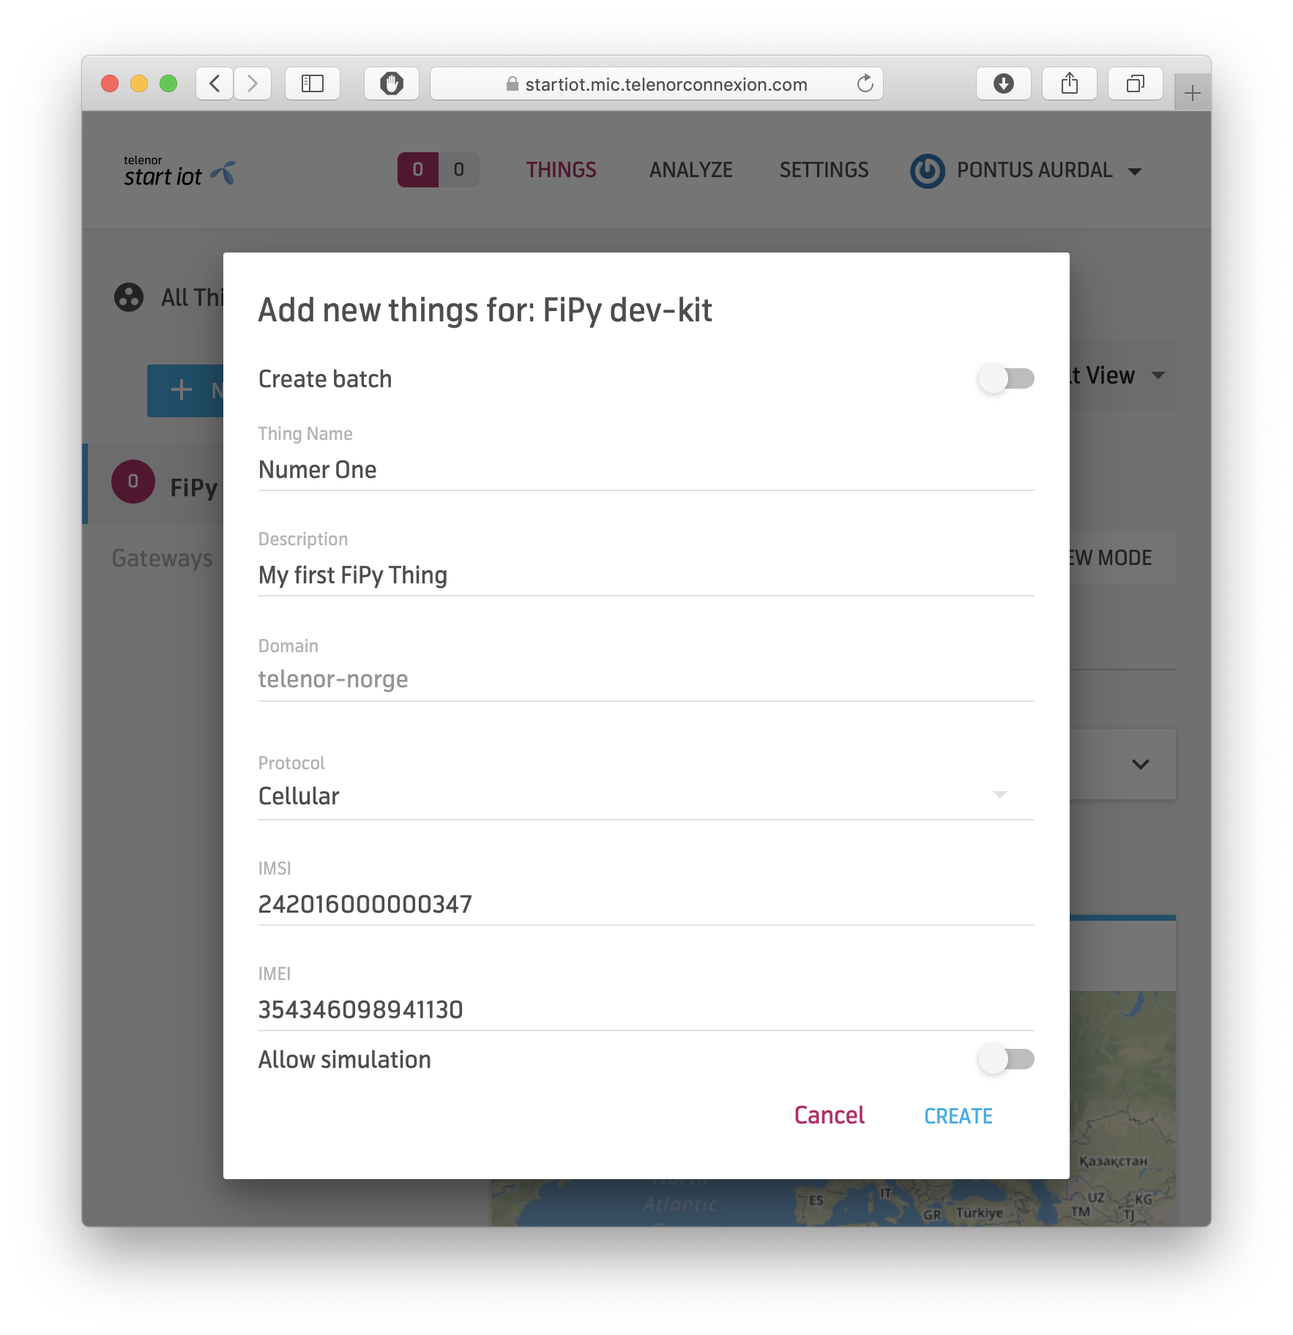
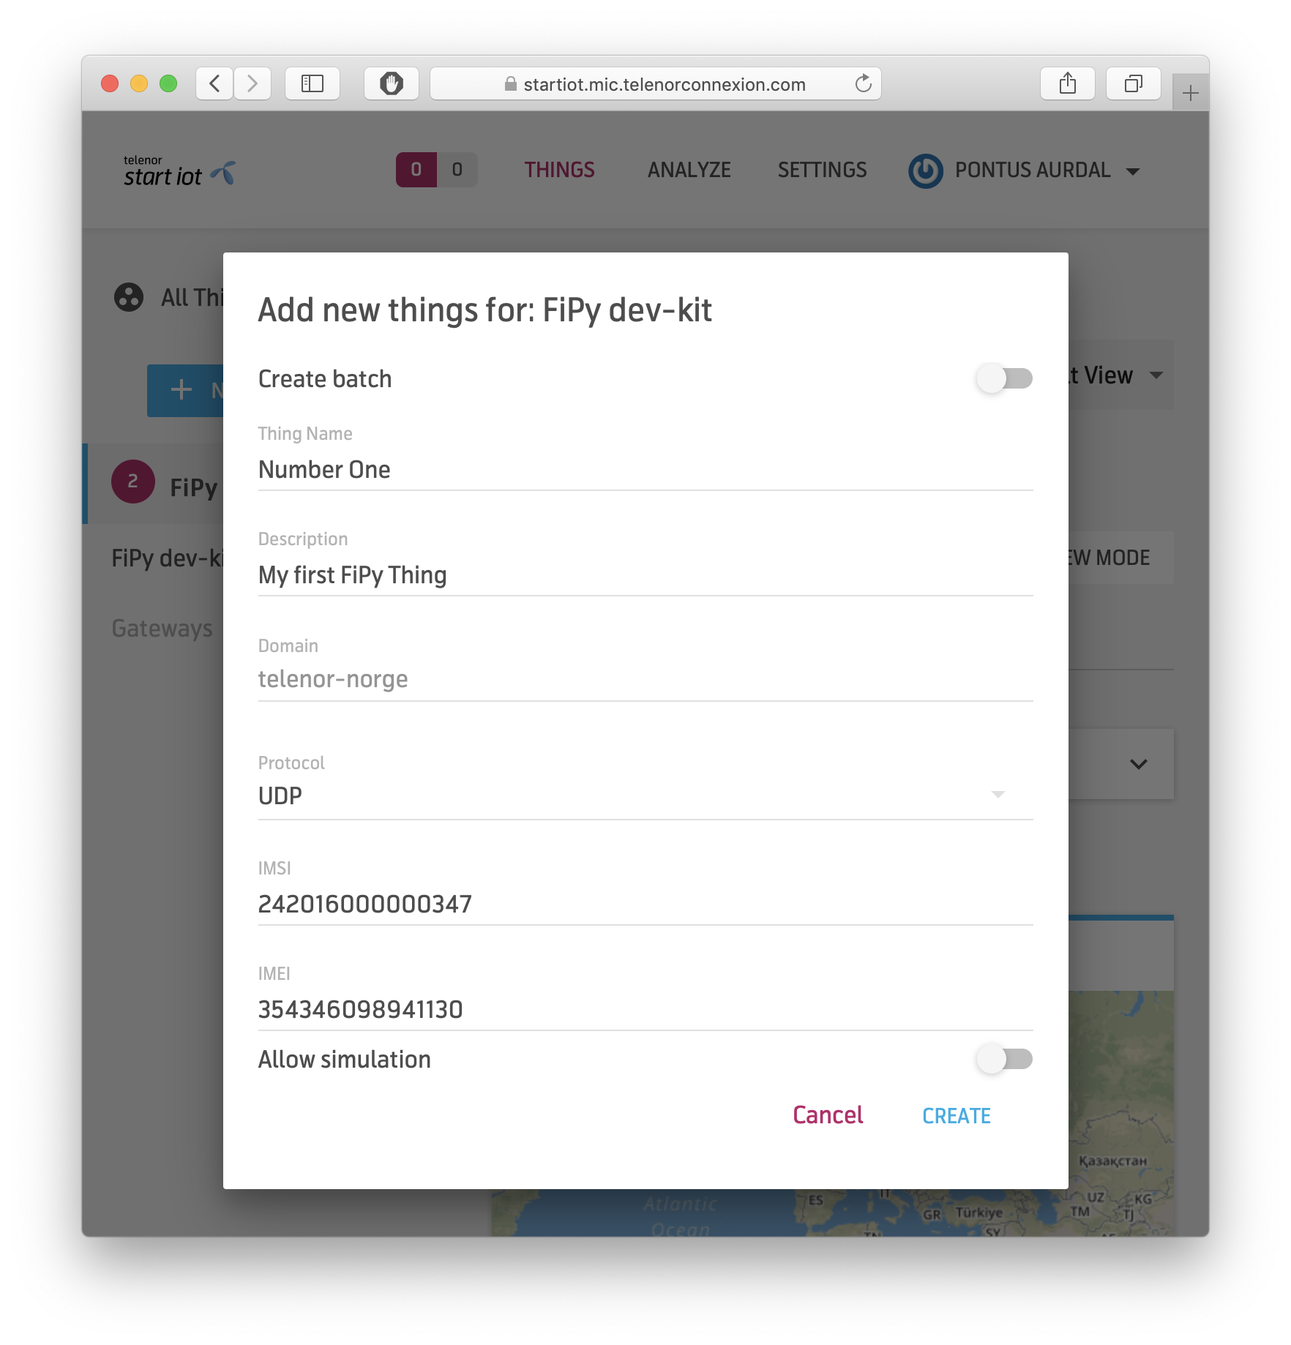
feat: update MQTT tutorial

diff --git a/02-fipy-mqtt/README.md b/02-fipy-mqtt/README.md
@@ -27,40 +27,43 @@ You can also find a lot of info related to the FiPy on Pycom's own documentation
 
 ## 1. Download and Install the VSCode Editor and the Pymakr Plugin
 
-This Chapter will show you how to download and install the VSCode editor and the Pymakr plugin for the VSCode editor. The VSCode editor is what you will use to connect to and program your dev-kit.
+This chapter will show you how to download and install the VSCode editor and the Pymakr plugin. The Pymakr plugin together with the VSCode editor is what you will use to connect to and program your FiPy dev-kit.
 
 ### Download the VSCode Editor
 
-The easiest way to program the FiPy is to use the VSCode editor and install the Pymakr plugin for the VSCode editor. You can download the VSCode editor for Windows, Linux and MacOS here: https://code.visualstudio.com/download. Download and install the VSCode editor for your operating system.
+You can download the VSCode editor for Windows, Linux and MacOS here: https://code.visualstudio.com/download. Download and install the VSCode editor for your operating system.
 
 ![Download VSCode](./assets/00-download-vscode.png)
 
 ### Install the Pymakr Plugin for VSCode
 
-When you have successfully installed the VSCode editor
-When you have successfully installed the VSCode editor you need to enable VSCode to connect over USB to the FiPy dev-kit. For that, the VSCode editor needs the Pymakr plugin. You should follow the instructions given by Pycom in order to install the plugin. Note: You should not try to follow the "Connect via serial USB" part just yet: https://docs.pycom.io/pymakr/installation/vscode/
+When you have successfully installed the VSCode editor you need to enable VSCode to connect over USB to the FiPy dev-kit. For that, the VSCode editor needs the Pymakr plugin. You should follow the instructions given by Pycom in order to install the plugin: https://docs.pycom.io/pymakr/installation/vscode/
 
-![Foo](./assets/01-pymakr.png)
+![VSCode Pymakr plugin](./assets/01-pymakr.png)
 
 When both the VSCode editor and the Pymakr plugin have been successfully installed you are ready to connect and start programming your own firmware for the FiPy. The next chapter will show you how to connect your dev-kit to the VSCode editor.
 
 ## 2. Assemble the FiPy Dev-Kit
 
-In this chapter you will learn how to assemble and connect the FiPy dev-kit to the VSCode editor. You will also communicate with the dev-kit in order to check the firmware version and retrieve the IMSI and IMEI numbers that you will need to register you dev-kit in the MIC platform. More on that in a later chapter, let us first connect the dev-kit to VSCode.
+In this chapter you will learn how to assemble and connect the FiPy dev-kit to the VSCode editor. You will also communicate with the dev-kit in order to check the firmware version. More on that in a later chapter, let us first assemble the dev-kit.
 
 ### Attach the Antenna
 
-**Important**: You should always mount the 4G antenna to the connector on the bottom side of the FiPy . The result of not connecting the antenna could be that you harm the modem when it is connected. You should insert the provided SIM card in the SIM card slot on the bottom side of the FiPy. If you do not have the SIM inserted it will be impossible to connect to the 4G network.
+**Important**: You should always mount the 4G antenna to the connector on the bottom side of the FiPy. The result of not connecting the antenna could be that you harm the modem when it is connected.
 
 ![LTE antenna](./assets/02-lte-ant-fipy.png)
 
-### Insert the SIM and Mount FiPy on the Expansion Board
+Attach the antenna on the bottom side of the FiPy.
 
-You should now mount the FiPy module to the provided Expansion Board. The USB connector on the expansion board must be in the same direction as the reset button on the FiPy module. The image shows you what it should look like. You should check that all the jumper switches on the Expansion board is present. The jumper switches are the small plastic jumpers located on the upper left side of the expansion board. Without all the jumpers in place it might be impossible to get contact with the FiPy. You should also check that all the PIN's on the FiPy are matching the open connectors on the expansion board (i.e. that it is aligned correctly) when you push the FiPy model into the expansion board.
+You should insert your SIM card into the SIM card slot on the bottom side of the FiPy. Notice the cut-corner of the SIM card to get the correct orientation. If you do not have the SIM inserted it will be impossible to connect to the 4G network.
 
 ![Insert SIM](./assets/03-sim-fipy.png)
 
 Insert the Nano SIM card.
+
+### Mount FiPy on the Expansion Board
+
+You should now mount the FiPy module to the provided Expansion Board. The USB connector on the expansion board must be in the same direction as the reset button on the FiPy module. The image shows you what it should look like. You should check that all the jumper switches on the Expansion board is present. The jumper switches are the small plastic jumpers located on the upper left side of the expansion board. Without all the jumpers in place it might be impossible to get contact with the FiPy. You should also check that all the PIN's on the FiPy are matching the open connectors on the expansion board (i.e. that it is aligned correctly) when you push the FiPy model into the expansion board.
 
 ![Expansion board 3.0](./assets/04-expansion-board-3-fipy.png)
 
@@ -68,22 +71,15 @@ Mount the FiPy on the Expansion board.
 
 ### Connect the FiPy to the VSCode Editor
 
-You are now ready to follow the "Connecting via serial USB" procedure described here: https://docs.pycom.io/pymakr/installation/vscode/#connecting-via-serial-usb
+You should now be able to connect to the FiPy dev-kit using a USB port on your computer. The Pymakr plugin will automatically detect your dev-kit and connect VSCode to it. You should note that the micro USB cable is not supplied with the dev-kit.
 
-As a result, you should now be able to connect to the FiPy dev-kit using a USB port on your computer. The Pymakr plugin will automatically detect your dev-kit and connect VSCode to it. You should note that the micro USB cable is not supplied with the dev-kit.
+![FiPy connected to VSCode and Pymakr](./assets/05-fipy-connected.png)
+
+If you don't see the Pycom Console window you can open it though the window menu "Window" > "New Terminal" and switch to "Pycom Console" in the drop-down.
 
 If you select the "All commands" button (located at the bottom bar) and then select "Get board version" in the VSCode Pymakr menu you should see the version number of the underlying Pycom Firmware.
 
-In the next chapter you will need the IMSI and IMEI numbers of the dev-kit. To get that, type the following in the REPL (after the >>>) and include carriage return (press enter) after each line. Make a note of the IMSI and IMEI numbers displayed (or just keep the VSCode editor open and available).
-
-``` python
-from network import LTE
-lte = LTE()
-lte.send_at_cmd("AT+CIMI")
-lte.send_at_cmd("AT+CGSN")
-```
-
-<Picture of terminal here>
+![FiPy board version](./assets/06-pymakr-board-version.png)
 
 ### Upgrade the Pycom Firmware
 
@@ -91,47 +87,47 @@ It should be OK to use the firmware that is pre-installed on your FiPy but you s
 
 ## 3. Register Your FiPy Dev-Kit in Telenor Managed IoT Cloud as an MQTT Thing
 
-In this chapter you will learn how to register your dev-kit to Telenor Start IoT Managed IoT Cloud (MIC). You will learn how to add a new MQTT "Thing" in MIC. You will also learn how to create a dashboard to display your data in MIC. When sending MQTT data to MIC it will be possible to view the separate values in the MQTT publish packet in MIC widgets. Widget types in MIC ranges from simple textual widgets to graphical representations of your data.
+In this chapter you will learn how to register your dev-kit to Telenor Managed IoT Cloud (MIC). You will learn how to add a new MQTT "Thing" in MIC. You will also learn how to create a dashboard to display your data in MIC. When sending MQTT data to MIC it will be possible to view the separate values in the MQTT publish packet in MIC widgets. Widget types in MIC ranges from simple textual widgets to graphical representations of your data.
 
 ### Sign Up For a MIC Platform Account
 
 You will have to register for a MIC account in order to register your dev-kit. You can do that here: https://demonorway.mic.telenorconnexion.com
 
-![Login](./assets/05-login-mic.png)
+![Login](./assets/07-login-mic.png)
 
 Click on the "Sign Up" button in the upper right corner and follow the instructions in order to sign up. You should be aware that the signup is a two phased sign up. It therefore requires that you, in phase one, verify your email. We will send a link to the email you register and you will have to use the link to verify your email address. In phase two, we will manually register your private MIC domain and activate your account. You will then receive a second email stating that your account has been activated. Because of this procedure it may take up to 24 hours before your account is ready to be used.
 
 ### Add a New Thing Type
 
-You will now have to login to your MIC account when it is ready for use. When logged in you must create a new "Thing Type" for your dev-kit. A "Thing Type" is a way to organize multiple "Things" that share similarities.
+You will be able to login to your MIC account when it is ready for use. When logged in create a new "Thing Type" for your dev-kit. A "Thing Type" is a way to organize multiple "Things" that share similarities.
 
-To add a new "Thing Type" click on the "+NEW THING TYPE" button and fill in the form. For things that are of type MQTT it is not necessary to add uplink or downlink transformations since the thing will send data following the MIC MQTT shadow update format. This format is directly understood by MIC.
+To add a new "Thing Type" click on the "+NEW THING TYPE" button and give it a name and a description. Assign it to the domain that your user was added to. For things that are of type MQTT it is not necessary to add uplink or downlink transformations since the thing will send data following the MIC MQTT shadow update format. This format is directly understood by MIC. You should keep in mind that this may increase the payload size for each data packet that your IoT device sends.
 
-![Create Thing Type](./assets/06-thingtype.png)
+![Create Thing Type](./assets/08-thing-type.png)
 
 ### Add a Thing Representing Your Dev-Kit
 
-The "Thing Type" and "Thing" together is a representation of your dev-kit in MIC. It is possible to have more than one thing in a Thing Type and this will make the Things in the Thing Type behave in the same manner with respect to how payloads from the Things are handled. The handling of the payload is described in your uplink transformation.
+The "Thing Type" and "Thing" together is a representation of your dev-kit in MIC. It is possible to have more than one thing in a Thing Type and this will make the Things in the Thing Type behave in the same manner with respect to how payloads from the Things are handled. The handling of the payload is described in your uplink transformation. When using the MQTT protocol we will however not make use of the uplink transformation.
 
-You must click on the "+THINGS" button to create a new Thing. In the create new Thing form, de-select the "Create batch" slider. You must then add a "Thing Name", a "Description", select your "Domain" and choose "mqtt" as "Protocol" for your Thing. The image shows an example of what it should look like.
+To add a new Thing, click on the "+ THINGS" button. De-select the "Create batch" slider in the pop-up window. You must then add a "Thing Name", a "Description", select your "Domain" and choose "MQTT" as the protocol for your Thing.
 
-![Add new Thing to Thing Type](./assets/07-thing.png)
+![Add new Thing to Thing Type](./assets/09-thing.png)
 
 ### See Your Newly Created Thing
 
 You can look at and access your Thing if you click the "List" tab. The image shows an example list of devices reflecting a single dev-kit Thing.
 
-![New Thing in MIC](./assets/08-thinglist.png)
+![New Thing in MIC](./assets/10-thing-list.png)
 
 ### Example Dashboard
 
-If you click on the "Thing name" in the list you will create a dashboard for your Thing. The dashboard will be mainly empty until the first payload for your Thing arrives. The dashboard is configurable and you can add widgets that represents values sent from your dev-kit (called resources). The image shows a very simple dashboard for the dummy payload sent from your device. It is possible to add more advanced widgets. Play around!
+If you click on the "Thing name" in the list you will create a dashboard for your Thing. The dashboard will be mainly empty until the first payload for your Thing arrives. The dashboard is configurable and you can add widgets that represents values sent from your dev-kit (called resources). The image shows a very simple dashboard for what it could look like. It is possible to add more advanced widgets.
 
-![Dashboard](./assets/09-dashboard.png)
+![Dashboard](./assets/11-sample-dashboard.png)
 
 ### Start Programming!
 
-It is now time to start programming the dev-kit. In the next chapter we will show you how.
+It is now time to start programming the dev-kit. In the next chapters we will show you how.
 
 ## 4. Flash FiPy for NB-IoT or Update the LTE-M Firmware
 
@@ -141,19 +137,19 @@ From the factory the FiPy is configured with the LTE-M (Cat M1) modem firmware, 
 
 It could however be a good idea to upgrade the LTE-M firmware when new versions are released. Detailed instructions on how to update the LTE-M firmware or switch to NB-IoT firmware can be found here: https://docs.pycom.io/tutorials/lte/firmware.html
 
+If you intend to use NB-IoT you must flash the modem firmware if you haven't done so already, as the factory image of the FiPy modem is configured for LTE-M (Cat M1).
+
 ## 5. Program the FiPy Using MQTT (LTE-M or NB-IoT)
 
-In this chapter you will learn how to program the FiPy dev-kit. The chapter will guide you through how to use the provided example code to connect the FiPy to the LTE-M or NB-IoT networks. Be aware that the FiPy Sequans modem firmware can only support either LTE-M (Cat M1) or NB-IoT. If you want to experiment with the NB-IoT network you will have to flash the Sequans modem on the FiPy with the NB-IoT firmware first.
-
-In this chapter you will learn how to program the FiPy dev-kit to send data using MQTT directly to MIC. The chapter will guide you on how to use the provided example code to connect the FiPy to the LTE-M (Cat M1) or NB-IoT (NB1) IoT networks. The example code prepares and publishes dummy messages directly to Managed IoT Cloud over the LTE-M (Cat M1) or NB-IoT (NB1) network.
+In this chapter you will learn how to program the FiPy dev-kit to send data using MQTT directly to MIC. The chapter will guide you through how to use the provided example code to connect the FiPy to the LTE-M or NB-IoT networks and publish dummy messages directly to Telenor Managed IoT Cloud. Be aware that the FiPy Sequans modem firmware can only support either LTE-M (Cat M1) or NB-IoT. If you want to experiment with the NB-IoT network you will have to flash the Sequans modem on the FiPy with the NB-IoT firmware first as described in the previous chapter.
 
 ### Download Example Code
 
-You can download the example code from here: https://github.com/TelenorStartIoT/FiPyDevKitCatM1
+You can download the example code from here: https://github.com/TelenorStartIoT/fipy-dev-kit-mqtt
 
 You should choose the "Download ZIP" option in the "Clone or Download" button pop-up. This will download a ZIP archive with the example code.
 
-![Download ZIP](./assets/10-download-zip.png)
+![Download ZIP](./assets/12-download-zip.png)
 
 ### Unzip the Example Code and Open It In VSCode
 
@@ -161,46 +157,76 @@ Unzip the example code. How to do this varies depending on your computer system.
 
 Open the folder using the "File > Open Folder" ("File > Open" on MacOS) option in VSCode.
 
-![Open project in VSCode](./assets/11-open-project.png)
+![Open project in VSCode](./assets/13-open-project.png)
+
+![Open project in VSCode](./assets/14-open-project.png)
 
 ### Download the Certificates and Keys From MIC
 
 Download the certificates and keys for your Thing as the image shows (you will get a ZIP file). Unzip the downloaded file and and add the content to the "cert" folder in the code project (remove old certificates and keys from this folder if present).
 
-![Download certificates and keys](./assets/12-download-certs.png)
+![Download certificates and keys](./assets/15-download-certs.png)
 
 ### Modify the Program's MQTT Configuration
 
-You will have to change the MQTT configuration defined in the config.py file of the downloaded program to reflect your thing (i.e. change the Thing ID in the configuration).
+You will have to change Thing ID configuration variable at the top of the [main.py](./main.py) file of the downloaded project.
 
-To see your Thing ID, click on the + sign in the list view and check the unchecked Thing ID box (see image). Note your Thing ID in the list view and change the following in the config.py file:
+To see your Thing ID, click on the + sign in the list view and check the unchecked Thing ID box (see image).
 
-   * Remove the # to uncomment the lines TOPIC, DOWNLINK_TOPIC and CLIENT_ID lines
-   * Change the TOPIC to reflect your thing (i.e. change 00001721 to your things id)
-   * Change the DOWNLINK_TOPIC (i.e. change 00001721 to your things id)
-   * Change the CLIENT_ID (i.e. change 00001721 to your things id)
+![View Thing ID](./assets/16-view-thing-id.png)
+
+Note your Thing ID in the list view and cadd it to the code:
+
+``` python
+# Your Telenor Managed IoT Cloud (MIC) Thing configuration.
+# Change this to your Thing name / ID:
+THING_ID = '00001965'
+```
 
 ### Modify the Program's Network Configuration
 
-The program you downloaded has the network (modem) configuration that should be used to connect to the NB1 network. If you are using the M1 network change the initModem function in the main.py file by commenting out the four lines shown on the right.
+The program you downloaded is by default configured to use the LTE-M (Cat M1) network. If you open the [main.py](./main.py) file you will se the following code at the top:
+
+``` python
+# Create a new Telenor Start IoT object using the LTE-M network.
+# Change the `network` parameter if you want to use the NB-IoT
+# network like this: iot = StartIoT(network='nb-iot')
+# You must flash the correct Sequans modem firmware before
+# changing network protocol!
+iot = StartIoT(network='lte-m')
+```
+
+As described in the code comments, if you are using the NB-IoT network you must change the `network` parameter to `nb-iot`:
+
+``` python
+iot = StartIoT(network='nb-iot')
+```
+
+Remember that if you want to use the NB-IoT network you will also have to flash the Sequans modem on the FiPy with the NB-IoT firmware as described in previous chapters.
 
 ### Run the Program
 
-Connect the FiPy that is mounted on the expansion board to your computer (if not already connected). Make sure that the SIM and LTE antenna is connected! The Pymakr plugin in VSCode will automatically detect the dev-kit.
+Connect the FiPy that is mounted on the expansion board to your computer (if not already). Make sure that the SIM and LTE antenna is connected! The Pymakr plugin in VSCode will automatically detect the dev-kit.
 
-To upload and run the program on your FiPy, simply click the "Upload" button located at the bottom bar. This will first upload the code, the certificates and key, then it will reset your FiPy and run the uploaded code.
+To upload and run the program on your FiPy, simply click the "Upload" button located at the bottom bar. This will first upload the code, the certificate and key, then it will reset your FiPy and run the uploaded code.
 
 ### Check the Output From the Program
 
-If everything goes well you should see output from the program in the Pycom Console window in VSCode. The image shows you what it could look like (the output from the program might be different).
+If everything goes well you should see output from the program in the Pycom Console window in VSCode. The image shows what it could look like (the output from the program might be different).
+
+![Program output](./assets/17-program-output.png)
 
 ### Wrapping It All Up
 
 You should now be able to view your data in the MIC dashboard. Try to add a time series widget by clicking the “+WIDGET” button in MIC and set the type to be "Time Series". Images below shows some sample screenshots on how to do it.
 
+![Timeseries widget](./assets/18-timeseries-widget.png)
+
+![Example dashboard](./assets/19-example-dashboard.png)
+
 ### Happy Hacking!
 
-This concludes the Get started with the FiPy tutorial. Your next step could be to connect the supplied DHT11 sensor to the FiPy and to modify the "dummy" payload string with values from the DHT11 sensor.
+This concludes the "Get Started With the FiPy Dev-Kit (UDP over NB-IoT or LTE-M)" tutorial. Your next step could be to connect the supplied DHT11 sensor to the FiPy and to modify the "dummy" payload string with values from the DHT11 sensor.
 
 A god starting point would be to use the library code supplied here:
 

diff --git a/01-fipy-udp/README.md b/01-fipy-udp/README.md
@@ -10,6 +10,7 @@ You will learn how to:
    * assemble the dev-kit and connect it to the VSCode editor
    * create a Telenor Start IoT Managed IoT Cloud (MIC) platform account
    * register your dev-kit in MIC and create payload transformations
+   * flash the modem firmware on the FiPy (to support either LTE-M or NB-IoT)
    * program the dev kit and send data to MIC over Telenor's excellent 4G LTE-M or NB-IoT network
    * view your data in MIC
 
@@ -132,9 +133,9 @@ Do not worry about the details for now, this was just for your information. It i
 
 ### Add a Thing Representing Your Dev-Kit
 
-The "Thing Type" and "Thing" together is a representation of your dev-kit in MIC. It is possible to have more than one thing in a Thing Type and this will make the Things in the Thing Type behave in the same manner with respect to how payloads from the Things are handled. The handling of the payload is described in your uplink transformation.
+The "Thing Type" and "Thing" together is a representation of your dev-kit in MIC. It is possible to have more than one Thing in a Thing Type and this will make the Things in the Thing Type behave in the same manner with respect to how payloads from the Things are handled. The handling of the payload is described in your uplink transformation.
 
-To add a new Thing, click on the "+ THINGS" button. De-select the "Create batch" slider in the pop-up window. You must then add a "Thing Name", a "Description", select your "Domain" and choose "Protocol" for your Thing. When you select "Cellular" as protocol you will also have to add the IMSI and IMEI numbers of your dev-kit. The image shows an example of what it should look like.
+To add a new Thing, click on the "+ THINGS" button. De-select the "Create batch" slider in the pop-up window. You must then add a "Thing Name", a "Description", select your "Domain" and choose "Protocol" for your Thing. When you select "UDP" as protocol you will also have to add the IMSI and IMEI numbers of your dev-kit. The image shows an example of what it should look like.
 
 ![Add new Thing to Thing Type](./assets/10-thing.png)
 
